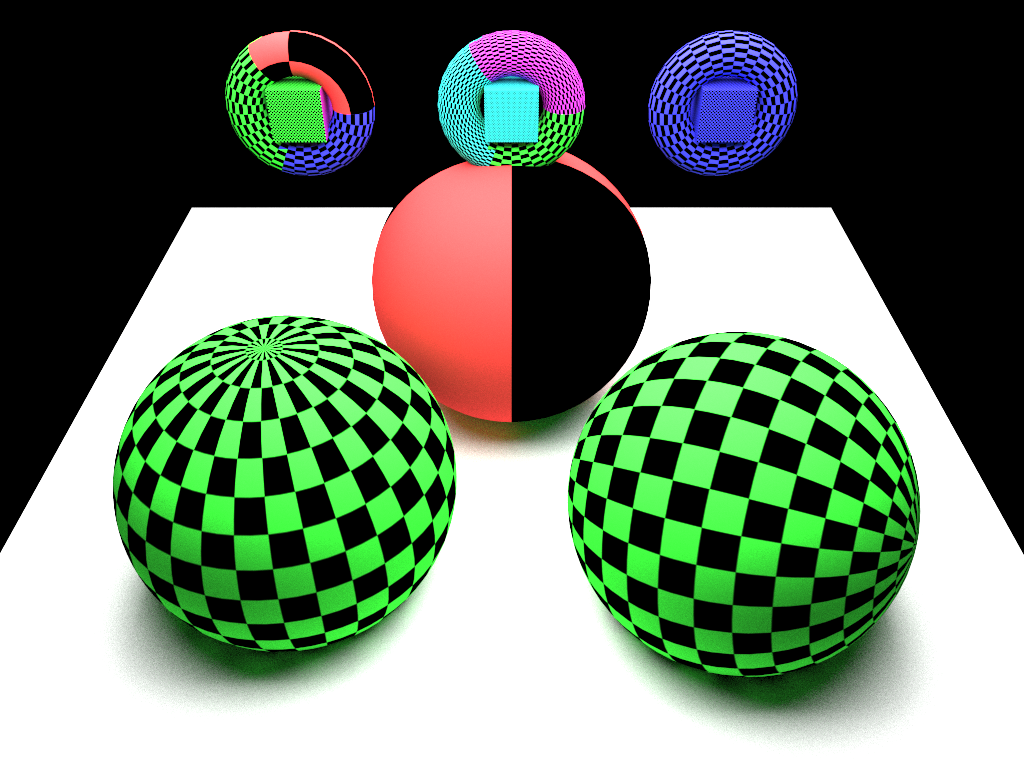
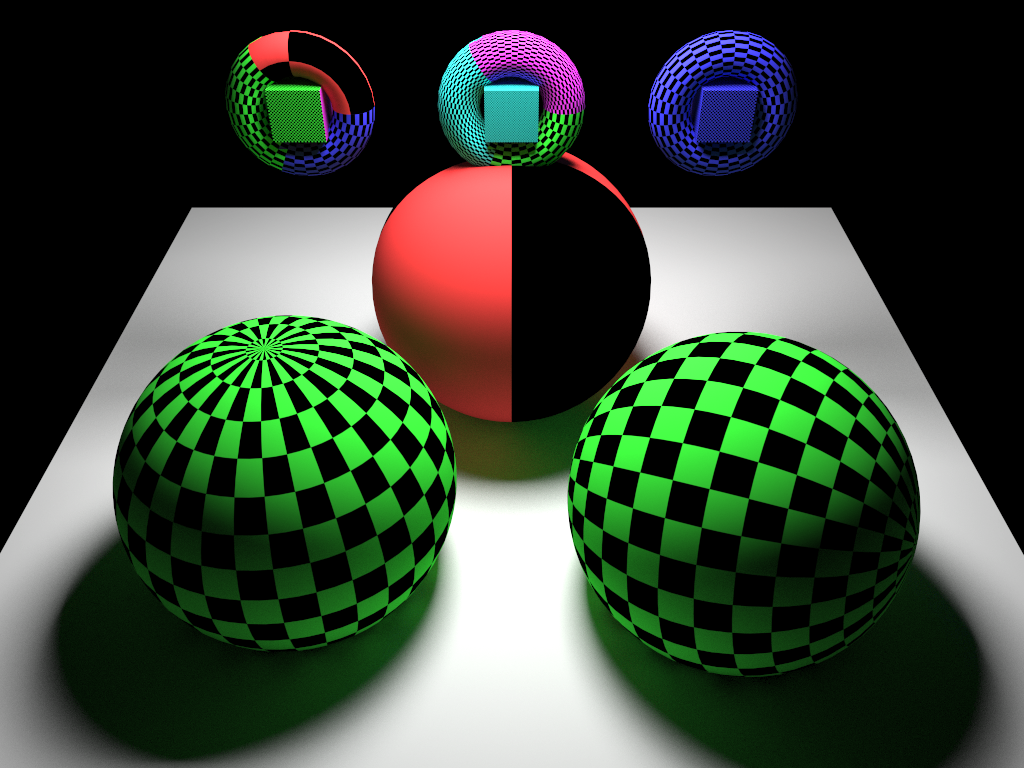
release

diff --git a/main/main.cpp b/main/main.cpp
@@ -96,34 +96,13 @@ int main(int argc, const char** argv)
     // run_all_lgt_tests();
     // run_all_mtl_tests();
     // run_all_ipp_tests();
-  
-    //test24_many_textures_big_data();
-    //test25_many_textures_big_data();
+   
+    std::cout << test35_cornell_with_light() << std::endl;
 
-    //test35_cornell_with_light();
-//    test42_load_library_basic();
-    //test81_custom_attributes();
-
-    //test1000_loadlibrary_and_edit();
-    //test1001_loadlibrary_and_add_textures();
-    //test1002_get_material_by_name_and_edit();
-    //test1003_get_light_by_name_and_edit();
-    //test1004_get_camera_by_name_and_edit();
-
-    // test1007_merge_library();      // run MTL_TESTS::test_131_blend_simple() first
-    // test1008_merge_one_texture();  // run MTL_TESTS::test_131_blend_simple() first
-    // test1009_merge_one_material(); // run MTL_TESTS::test_131_blend_simple() first
-    // test1010_merge_one_mesh();     // run GEO_TESTS::test_005_instancing() and GEO_TESTS::test_002_mesh_from_vsgf() first
-    // test1011_merge_scene();        // run MTL_TESTS::test_131_blend_simple() first
-    // test1012_merge_one_light();    // run LGHT_TESTS::test_221_cylinder_tex3();
-
-
-    //std::cout << test1015_merge_scene_with_remaps() << std::endl;
-    //std::cout << test1016_merge_scene_remap_override() << std::endl;
-    //std::cout << test1017_merge_scene_scene_id_mask() << std::endl;
+    //test42_load_library_basic();
     //test77_save_gbuffer_layers();
 
-    std::cout << test39_mesh_from_vsgf() << std::endl;
+    //std::cout << test39_mesh_from_vsgf() << std::endl;
     //std::cout << test37_cornell_with_light_different_image_layers() << std::endl;
     //std::cout << test77_save_gbuffer_layers() << std::endl;
     //std::cout << test59_cornell_water_mlt() << std::endl;

diff --git a/main/tests_mtl3.cpp b/main/tests_mtl3.cpp
@@ -1799,13 +1799,13 @@ bool MTL_TESTS::test_155_proc_checker_HDR_precomp()
 
     auto sizeNode = lightNode.append_child(L"size");
 
-    sizeNode.append_attribute(L"half_length").set_value(L"8.0");
-    sizeNode.append_attribute(L"half_width").set_value(L"8.0");
+    sizeNode.append_attribute(L"half_length").set_value(L"2.0");
+    sizeNode.append_attribute(L"half_width").set_value(L"2.0");
 
     auto intensityNode = lightNode.append_child(L"intensity");
 
     intensityNode.append_child(L"color").append_attribute(L"val").set_value(L"1 1 1");
-    intensityNode.append_child(L"multiplier").append_attribute(L"val").set_value(L"4.0");
+    intensityNode.append_child(L"multiplier").append_attribute(L"val").set_value(L"16.0");
     VERIFY_XML(lightNode);
   }
   hrLightClose(rectLight);
@@ -2545,13 +2545,13 @@ bool MTL_TESTS::test_157_proc_checker_precomp_remap()
 
     auto sizeNode = lightNode.append_child(L"size");
 
-    sizeNode.append_attribute(L"half_length").set_value(L"8.0");
-    sizeNode.append_attribute(L"half_width").set_value(L"8.0");
+    sizeNode.append_attribute(L"half_length").set_value(L"2.0");
+    sizeNode.append_attribute(L"half_width").set_value(L"2.0");
 
     auto intensityNode = lightNode.append_child(L"intensity");
 
     intensityNode.append_child(L"color").append_attribute(L"val").set_value(L"1 1 1");
-    intensityNode.append_child(L"multiplier").append_attribute(L"val").set_value(L"4.0");
+    intensityNode.append_child(L"multiplier").append_attribute(L"val").set_value(L"16.0");
     VERIFY_XML(lightNode);
   }
   hrLightClose(rectLight);

diff --git a/main/testsB.cpp b/main/testsB.cpp
@@ -3310,7 +3310,7 @@ bool test88_proc_texture_convex_rust()
 
   hrRenderSaveFrameBufferLDR(renderRef, L"tests_images/test_88/z_out.png");
 
-  return check_images("test_88", 1, 10);
+  return check_images("test_88", 1, 30);
 }
 
 
